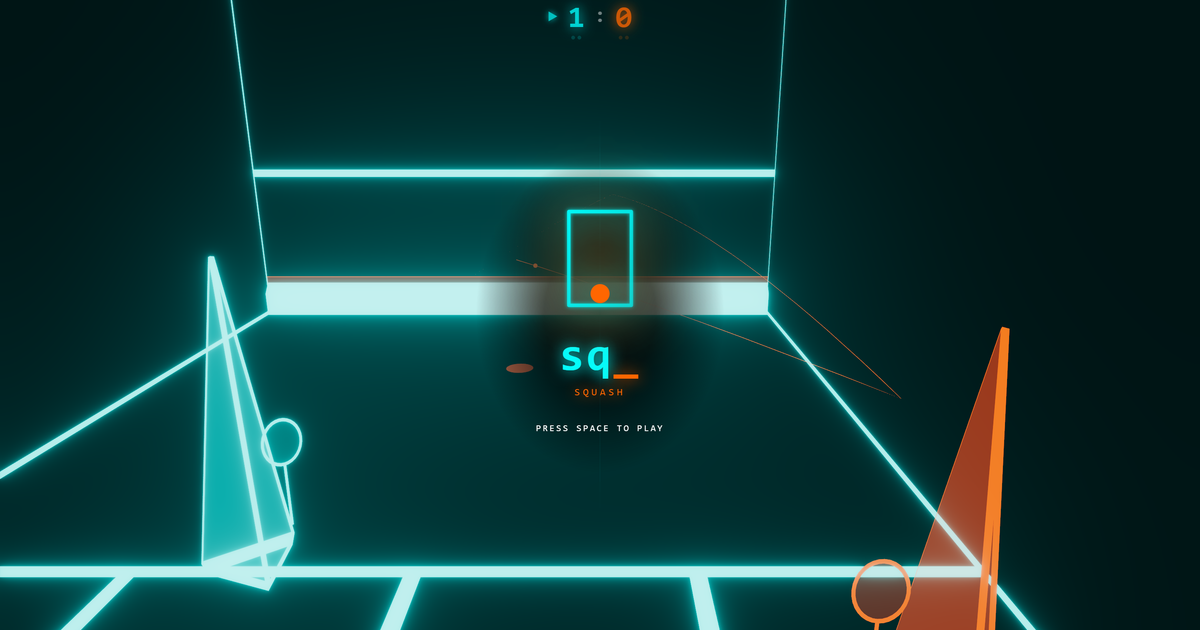
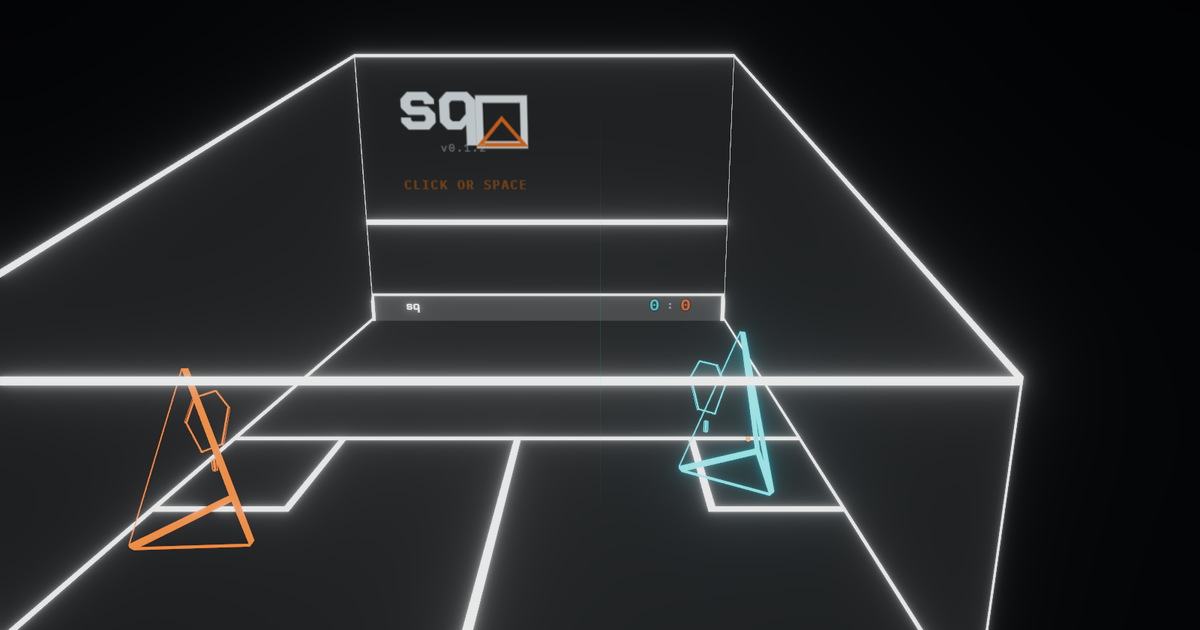
Refresh social OG preview to match current court visuals.
Replace the stale cyan-line still with a cropped idle capture and player-facing copy so Discord/unfurls no longer show the old identity.

diff --git a/index.html b/index.html
@@ -6,21 +6,22 @@
     <link rel="icon" type="image/png" sizes="32x32" href="/sq-favicon-32.png" />
     <meta name="viewport" content="width=device-width, initial-scale=1.0" />
     <title>sq_ - browser 3D squash</title>
-    <meta name="description" content="sq_ is a browser-only 3D squash game on a WSF court with Rapier physics, two-button controls, and PARS-11 best-of-3 scoring. No account required." />
+    <meta name="description" content="Play 3D squash in the browser against an AI. WSF court, two-button controls, PARS-11 best of 3. No account." />
     <link rel="canonical" href="https://sq.perniemann.com/" />
     <meta property="og:type" content="website" />
     <meta property="og:site_name" content="sq_" />
     <meta property="og:title" content="sq_ - browser 3D squash" />
-    <meta property="og:description" content="sq_ is a browser-only 3D squash game on a WSF court with Rapier physics, two-button controls, and PARS-11 best-of-3 scoring. No account required." />
+    <meta property="og:description" content="Play 3D squash in the browser against an AI. WSF court, two-button controls, PARS-11 best of 3. No account." />
     <meta property="og:url" content="https://sq.perniemann.com/" />
-    <meta property="og:image" content="https://sq.perniemann.com/og-image.png" />
+    <meta property="og:image" content="https://sq.perniemann.com/og-image.png?v=2" />
     <meta property="og:image:width" content="1200" />
     <meta property="og:image:height" content="630" />
+    <meta property="og:image:alt" content="Idle sq_ court: title lockup on the front wall, cyan and orange athletes, diegetic 0–0 on the tin" />
     <meta name="twitter:card" content="summary_large_image" />
-    <meta name="twitter:image" content="https://sq.perniemann.com/og-image.png" />
+    <meta name="twitter:image" content="https://sq.perniemann.com/og-image.png?v=2" />
     <meta name="twitter:title" content="sq_ - browser 3D squash" />
-    <meta name="twitter:description" content="Browser-only 3D squash on a WSF court with Rapier physics and PARS-11 scoring." />
-    <script type="application/ld+json">{"@context":"https://schema.org","@type":"WebPage","name":"sq_ - browser 3D squash","url":"https://sq.perniemann.com/","description":"sq_ is a browser-only 3D squash game on a WSF court with Rapier physics, two-button controls, and PARS-11 best-of-3 scoring. No account required.","isPartOf":{"@type":"WebSite","name":"sq_","url":"https://sq.perniemann.com/"},"mainEntity":{"@type":"WebApplication","name":"sq_","applicationCategory":"GameApplication","operatingSystem":"Any","offers":{"@type":"Offer","price":"0","priceCurrency":"USD"}}}</script>
+    <meta name="twitter:description" content="Play 3D squash in the browser against an AI. WSF court, two-button controls, PARS-11 best of 3. No account." />
+    <script type="application/ld+json">{"@context":"https://schema.org","@type":"WebPage","name":"sq_ - browser 3D squash","url":"https://sq.perniemann.com/","description":"Play 3D squash in the browser against an AI. WSF court, two-button controls, PARS-11 best of 3. No account.","isPartOf":{"@type":"WebSite","name":"sq_","url":"https://sq.perniemann.com/"},"mainEntity":{"@type":"WebApplication","name":"sq_","applicationCategory":"GameApplication","operatingSystem":"Any","offers":{"@type":"Offer","price":"0","priceCurrency":"USD"}}}</script>
     <style>
       * {
         margin: 0;
@@ -57,9 +58,8 @@
         <section>
           <h2>About</h2>
           <p>
-            sq_ is a browser-only 3D squash game: WSF-dimension court, Rapier physics,
-            black/white court with cyan/orange accents, two-button input, and PARS-11
-            best-of-3 scoring. No account and no backend — play at
+            Play 3D squash in the browser against an AI. WSF court, two-button controls,
+            PARS-11 best of 3. No account. Play at
             <a href="https://sq.perniemann.com/">https://sq.perniemann.com/</a>.
           </p>
         </section>
